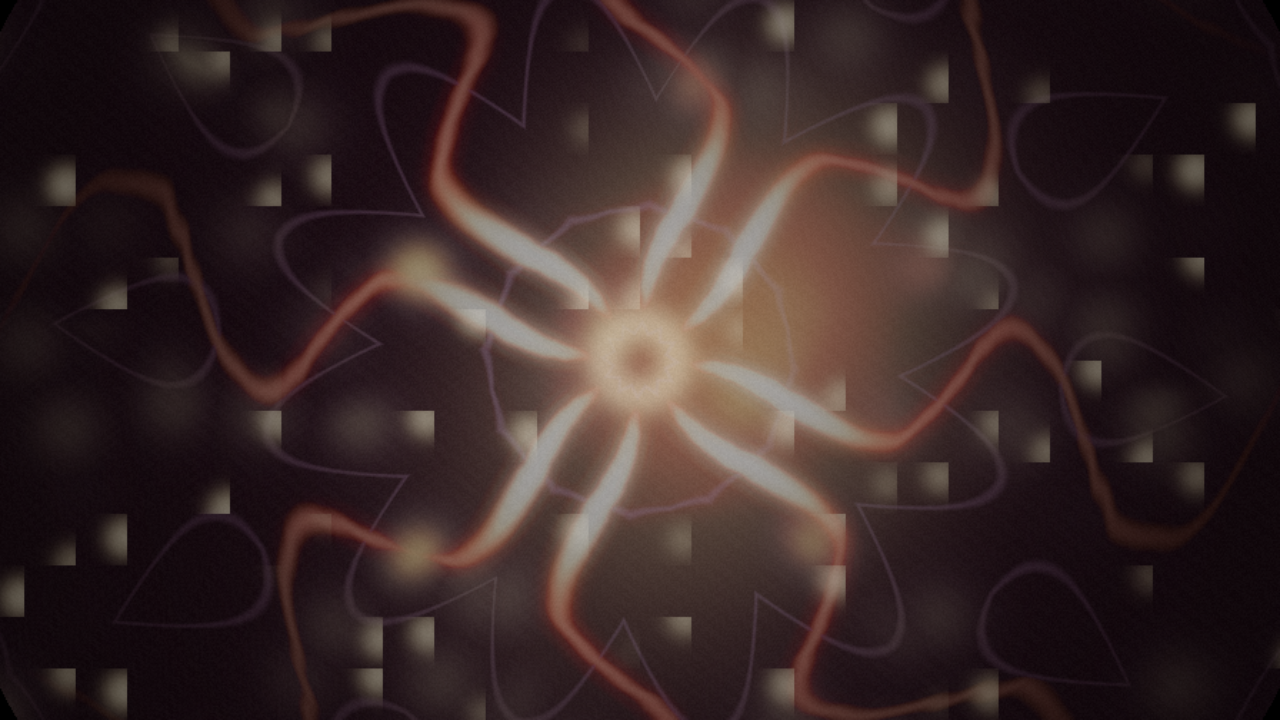
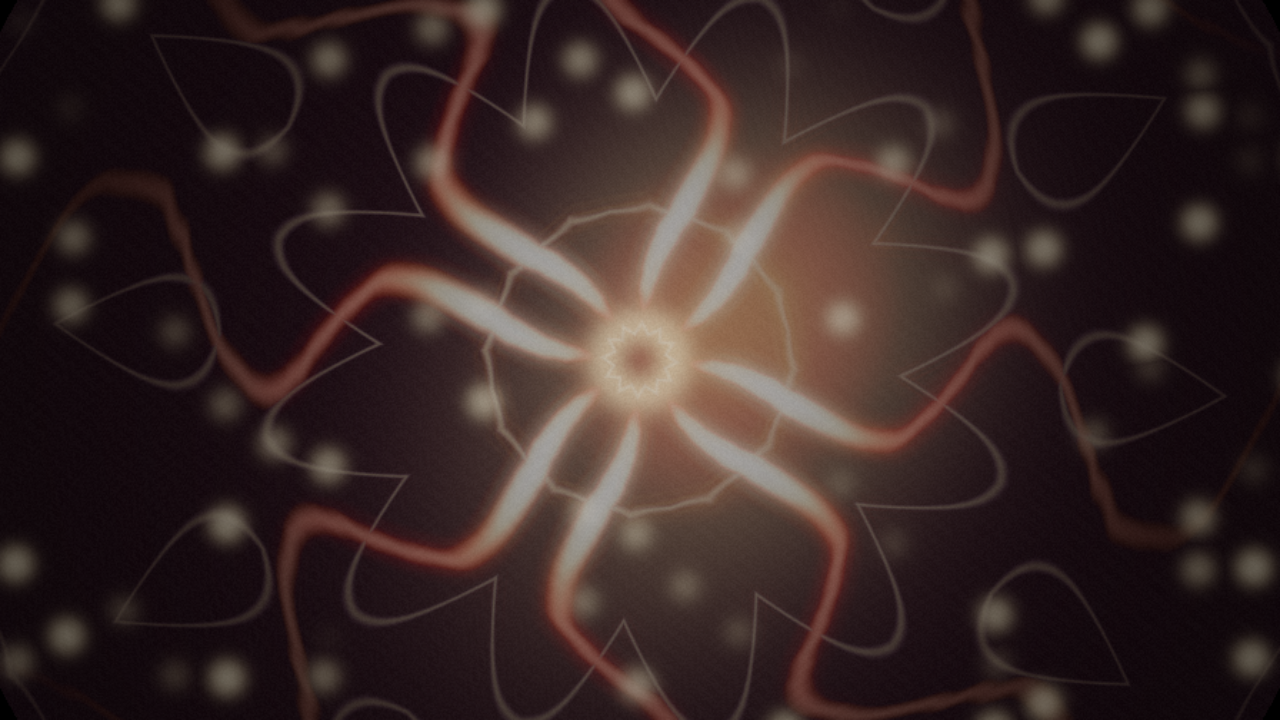
yaktin-beni v3: fix "only beautiful when paused" (audio dropout deadening) + round lights + tunnel layer
Louis watchthrough redline batch #2.

#1 THE BUG (fixed + verified): "only beautiful when paused" was a real audio-
driver bug. The song has bass/drum DROPOUTS (bass_stem=0.001 at t=195.18 where
Louis paused; spiky 4-on-floor through the long-peak). Liveness used
mix(synthetic, real, playing), so PLAYING collapsed to a dead floor on a
dropout while PAUSED flipped to the lively synthetic driver. Fix: a section-
scaled lively floor that real audio ADDS to (max(real, floor)), in acid-
filament + hyperspace-tunnel + bloom-grain. Playing is never deader than the
idle baseline; quiet sections keep a low floor.

#2 cornered lights (fixed): removed the scattered ember-dot field from girih-
mandala (flagged three runs running); bloom sparks single-cell -> 3x3 (no
edge-clip squares).

#3 more tunnel (partial): new hyperspace-tunnel layer (log-polar warp flythrough
-- rings rush past stable radial streaks; cursor steers the vanishing point),
made fast + bright + dominant, dark tunnel-mouth at the drop. Does NOT yet read
as full "projected into hyperspace" -- the bright-centred mandala fights the
dark vanishing point a tunnel needs; the real fix is a drop-mode compositional
pivot (radial streaks, dark centre), staged next pending Louis's direction.

Also: filament drop motion was incoherent ~7Hz flicker -> removed the strobe,
slowed the chaos clocks (the coherent flythrough now lives in the tunnel layer).

diff --git a/brainstorming/critiques/yaktin-beni-v3.md b/brainstorming/critiques/yaktin-beni-v3.md
@@ -1,0 +1,51 @@
+# yaktin-beni — v3 critique (Louis watchthrough redline batch #2)
+
+Redlines from Louis watching v2 live:
+1. **"Only beautiful when paused"** — crazy beautiful frozen at t=195.18, boring
+   when playing. "I think you have a bug where it's only beautiful on pause."
+2. **Cornered lights at the beginning** — "the weird lights with the corners,
+   that's not mesmerizing."
+3. **More tunnel** — "I want more tunnel, stack layers on top... be projected
+   on the hyperspace." (Re-cited at t=163.27.)
+
+## #1 — the real bug (FIXED + verified)
+Root cause found by reading the analysis JSON: at t=195.18 the song has a
+**bass + drum DROPOUT** (bass_stem=0.001, drums=0.007 — vocal + synth only), and
+the long-peak bass is spiky 4-on-floor (0→0.75→0 every ~0.49s). Liveness used
+`mix(synthetic, real, playing)`, so:
+- PLAYING -> real bass ~0 -> drop/glow/writhe collapse to a dead floor -> boring.
+- PAUSED  -> playing flips to 0 -> the lively SYNTHETIC driver -> beautiful.
+Pausing literally swapped in a different, livelier driver. Fix: a
+**section-scaled lively floor** that real audio ADDS to
+(`bass = max(max(real_bass, 0.6*level)*playing, sectE*livelyOsc)`), in
+acid-filament + hyperspace-tunnel (+ bloom-grain for the mouth). Playing is now
+never deader than the idle baseline; quiet sections keep a low floor. VERIFIED:
+the t=195 *playing* clip is now lively (was dead).
+
+## #2 — cornered lights (FIXED)
+- Removed the scattered ember-dot FIELD from girih-mandala entirely (flagged 3
+  runs running: "square grid" -> "corners" -> "not mesmerizing"). Mandala is now
+  the clean kaleidoscope strapwork; lights are the tunnel + filament + bloom.
+- bloom-grain sparks: single-cell -> 3x3 neighbourhood (no edge-clip squares).
+
+## #3 — more tunnel (PARTIAL — needs a compositional rework)
+- New `hyperspace-tunnel` layer (log-polar warp: rings rush outward past stable
+  radial streaks; cursor steers the vanishing point). Made it fast + bright +
+  dominant; dark-tunnel-mouth darkening in bloom-grain at the drop.
+- HONEST STATUS: it does not yet read as "projected into a hyperspace tunnel".
+  The piece is a BRIGHT-CENTRED mandala; a tunnel needs a DARK vanishing point +
+  radial streaks, but the bright mid-radius filament FLOWER + the bloom refill
+  the centre and fight it. Six fade-based attempts could not overcome the
+  centred-mandala composition. The real fix is a drop-mode compositional pivot:
+  the mandala opens into a dark tunnel and the filament draws as RADIAL streaks
+  (not a tangential flower). Staged as the next focused pass (handed to Louis to
+  confirm direction first).
+
+## Also fixed
+- Filament drop motion was incoherent flicker (m-2.2 vs m-2.3, 0.1s apart, were
+  totally different) -> removed the ~7Hz `rush` strobe + fast fbm; slowed the
+  chaos clocks; the fast flythrough now lives in the (coherent log-polar) tunnel
+  layer. Filament trail 0.85 -> 0.65 (motion-washout guard).
+
+## Lint gate
+palette PASS (0.00% cool), idle PASS. (Motion/tunnel judged from clips.)